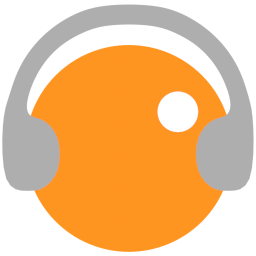
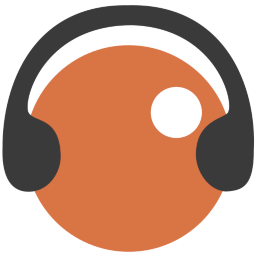
Updated GUI (v1.2)

diff --git a/src/main/java/net/tnn1nja/scint/Window.java b/src/main/java/net/tnn1nja/scint/Window.java
@@ -33,7 +33,7 @@ public class Window {
 
         //Base Settings
         JFrame frame = new JFrame("Scint - DND Noises.");
-        frame.setSize(410, 254);
+        frame.setSize(410, 244);
         frame.setResizable(false);
         frame.setLocationRelativeTo(null); //Create in center of screen
         frame.setIconImage(Toolkit.getDefaultToolkit().getImage(getClass().getResource("/icon.png")));
@@ -52,13 +52,13 @@ public class Window {
         //Labels
         Font smallFont = new Font("Dialog", Font.ITALIC, 10);
         setDelayLabel("-");
-        delayLabel.setBounds(15, 191, 185, 20);
+        delayLabel.setBounds(15, 181, 185, 20);
         delayLabel.setFont(smallFont);
         setLastLabel("...");
-        lastLabel.setBounds(145, 191, 145, 20);
+        lastLabel.setBounds(145, 181, 145, 20);
         lastLabel.setFont(smallFont);
         setSoundsLoaded(0);
-        soundsLoaded.setBounds(300, 191, 145, 20);
+        soundsLoaded.setBounds(300, 181, 145, 20);
         soundsLoaded.setFont(smallFont);
 
         JLabel minLabel = new JLabel("Minimum Delay (Mins)");
@@ -70,7 +70,7 @@ public class Window {
         //Buttons
         JToggleButton muteButton = new JToggleButton("\uD83D\uDD0A", false);
         muteButton.setToolTipText("Toggle Mute.");
-        muteButton.setBounds (330, 165, 50, 25);
+        muteButton.setBounds (330, 155, 50, 25);
         muteButton.addActionListener(new ActionListener() {
             @Override
             public void actionPerformed(ActionEvent e) {
@@ -84,7 +84,7 @@ public class Window {
         });
 
         JButton mp3Button = new JButton("Open MP3 Folder");
-        mp3Button.setBounds (15, 165, 130, 25);
+        mp3Button.setBounds (15, 155, 130, 25);
         mp3Button.setToolTipText("Open AppData MP3 Folder.");
         mp3Button.addActionListener(new ActionListener() {
             @Override
@@ -100,7 +100,7 @@ public class Window {
 
         JButton regenButton = new JButton("⟳");
         regenButton.setToolTipText("Regenerate Files in AppData Folder.");
-        regenButton.setBounds (150, 165, 50, 25);
+        regenButton.setBounds (150, 155, 50, 25);
         regenButton.addActionListener(new ActionListener() {
             @Override
             public void actionPerformed(ActionEvent e) {
@@ -110,7 +110,7 @@ public class Window {
 
         JButton timerButton = new JButton("⊘");
         timerButton.setToolTipText("Reset the Delay Before Next Sound.");
-        timerButton.setBounds (275, 165, 50, 25);
+        timerButton.setBounds (275, 155, 50, 25);
         timerButton.addActionListener(new ActionListener() {
             @Override
             public void actionPerformed(ActionEvent e) {
@@ -133,7 +133,7 @@ public class Window {
         minSlider.setOrientation(JSlider.HORIZONTAL);
         minSlider.setMinorTickSpacing(1);
         minSlider.setMajorTickSpacing(5);
-        minSlider.setPaintTicks(true);
+        minSlider.setPaintTicks(false);
         minSlider.setPaintLabels(false);
         minSlider.addChangeListener(new ChangeListener() {
             @Override
@@ -175,7 +175,7 @@ public class Window {
         maxSlider.setOrientation(JSlider.HORIZONTAL);
         maxSlider.setMinorTickSpacing(1);
         maxSlider.setMajorTickSpacing(5);
-        maxSlider.setPaintTicks(true);
+        maxSlider.setPaintTicks(false);
         maxSlider.setPaintLabels(false);
         maxSlider.addChangeListener(new ChangeListener() {
             @Override

diff --git a/src/main/java/net/tnn1nja/scint/Main.java b/src/main/java/net/tnn1nja/scint/Main.java
@@ -1,5 +1,7 @@
 package net.tnn1nja.scint;
 
+import com.formdev.flatlaf.themes.FlatMacDarkLaf;
+
 import static net.tnn1nja.scint.Init.ioHand;
 
 public class Main {
@@ -17,6 +19,7 @@ public class Main {
 
         player.startSounds(5,10, window);
 
+        FlatMacDarkLaf.setup();
         window.launch(this);
         window.setDelayLabel(String.valueOf(player.delay/player.coeff));
         window.setSoundsLoaded(ioHand.getSounds().size());

diff --git a/src/main/java/net/tnn1nja/scint/IOHandler.java b/src/main/java/net/tnn1nja/scint/IOHandler.java
@@ -1,5 +1,6 @@
 package net.tnn1nja.scint;
 
+import java.awt.image.BufferedImage;
 import java.io.*;
 import java.util.ArrayList;
 
